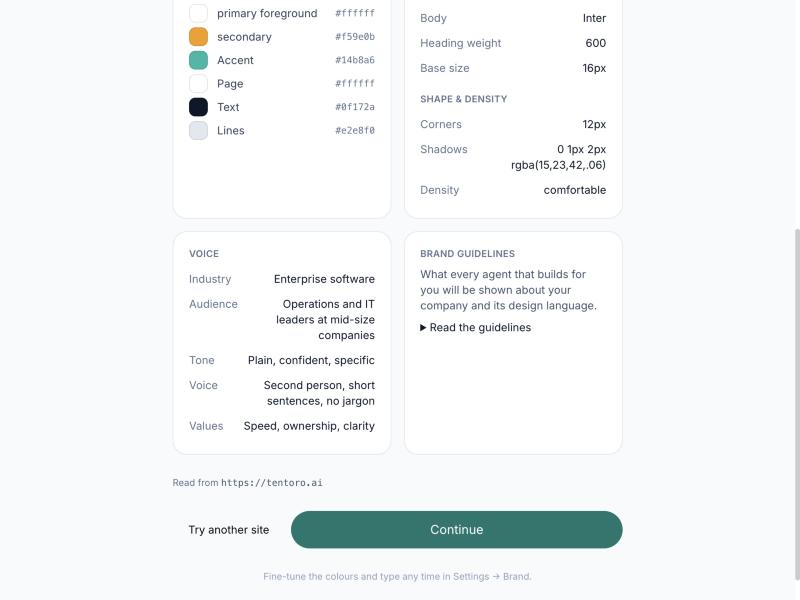
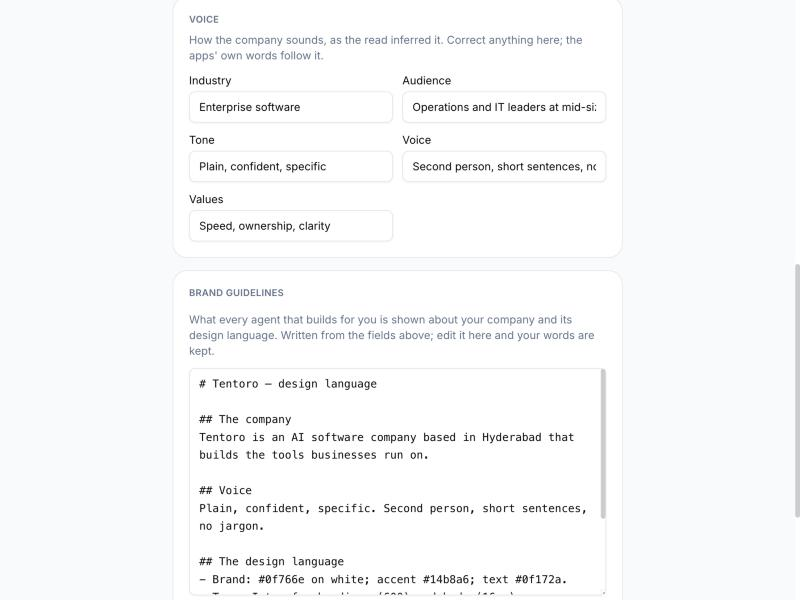
The voice and the brand guidelines are edited where they are shown
On the look screen the Voice (industry, audience, tone, voice, values) and
the Brand guidelines now sit one below the other, full width, and both are
edited in place. The guidelines textarea holds the document as rendered from
the read; left alone it keeps following the fields, and once the person
writes in it their words are what is saved — PUT /api/orgs/{id}/brand takes
`design_md`, keeps a hand-written document across later corrections to a
colour or a sentence, and an empty one hands it back to the renderer.
"Back to the generated text" undoes an edit before saving. The About screen
keeps the three answers alone.

diff --git a/frontend/src/app/start/page.tsx b/frontend/src/app/start/page.tsx
@@ -29,7 +29,8 @@ import { api, ApiError } from "@/lib/api";
 import { useAuthStore } from "@/stores/auth";
 import { COLOR_ROLES, type BrandIdentity, type BrandProfile, brand, describeDesign } from "@/lib/brand";
 import { cleanedForSave } from "@/components/brand/BrandProfileEditor";
-import { DiscoveryQuestionField, IdentityDetailFields, ReadFromNote, useBrandLogo } from "@/components/brand/fields";
+import { DiscoveryQuestionField, ReadFromNote, useBrandLogo } from "@/components/brand/fields";
+import { Textarea } from "@/components/ui/textarea";
 import { PaletteStrip, ReadingSequence, TypeSpecimen } from "@/app/onboarding/moments";
 import { ACCOUNT_TYPES, ROLES, type AccountType, type MemberRole, badEmails, parseEmails, slugPreview, slugProblem } from "./lib";
 
@@ -79,59 +80,88 @@ const ROLE_LABEL: Record<string, string> = {
 };
 const ROLE_ORDER = ["primary", "primaryForeground", "secondary", "accent", "background", "foreground", "muted", "border"];
 
-/** Everything the site read produced, in the order it matters. */
-function BrandReadout({ profile }: { profile: BrandProfile }) {
+const VOICE_FIELDS: ReadonlyArray<[keyof BrandIdentity, string, string]> = [
+  ["industry", "Industry", "What business this is"],
+  ["audience", "Audience", "Who it is for"],
+  ["tone", "Tone", "How the writing sounds"],
+  ["voice", "Voice", "How it addresses people"],
+  ["values", "Values", "What it stands for"],
+];
+
+/** Everything the site read produced, in the order it matters — the voice
+ *  and the guidelines editable in place, because this is the one moment the
+ *  person is looking at them. */
+function BrandReadout({ profile, identity, onIdentity, guidelines, onGuidelines, guidelinesEdited, onResetGuidelines }: {
+  profile: BrandProfile;
+  identity: BrandIdentity;
+  onIdentity: (key: keyof BrandIdentity, value: string) => void;
+  guidelines: string;
+  onGuidelines: (value: string) => void;
+  guidelinesEdited: boolean;
+  onResetGuidelines: () => void;
+}) {
   const design = profile.design ?? {};
-  const identity = profile.identity ?? {};
   const colors = Object.entries(design.colors ?? {}).filter(([, v]) => typeof v === "string" && v)
     .sort(([a], [b]) => (ROLE_ORDER.indexOf(a) + 1 || 99) - (ROLE_ORDER.indexOf(b) + 1 || 99));
   const type = design.typography ?? {};
   const radius = design.radius ?? {};
   const elevation = design.elevation ?? {};
-  const voice = [["Industry", identity.industry], ["Audience", identity.audience], ["Tone", identity.tone], ["Voice", identity.voice], ["Values", identity.values]]
-    .filter(([, v]) => v) as [string, string][];
   const card = "rounded-2xl border border-slate-200 bg-white p-5 dark:border-slate-800 dark:bg-slate-900";
   const head = "mb-2 text-xs font-semibold uppercase tracking-wide text-slate-500 dark:text-slate-400";
   return (
-    <div data-brand-readout="" className="grid gap-4 sm:grid-cols-2">
-      <section className={card} aria-label="Colours">
-        <h2 className={head}>Colours</h2>
-        {colors.length === 0 && <p className="text-sm text-slate-400">No colours could be read.</p>}
-        <ul className="space-y-1.5">
-          {colors.map(([key, hex]) => (
-            <li key={key} className="flex items-center gap-3 text-sm">
-              <span aria-hidden="true" className="h-6 w-6 shrink-0 rounded-md border border-black/10" style={{ background: hex }} />
-              <span className="flex-1 text-slate-700 dark:text-slate-200">{ROLE_LABEL[key] ?? key.replace(/([A-Z])/g, " $1").toLowerCase()}</span>
-              <code className="text-xs text-slate-500">{hex}</code>
-            </li>
-          ))}
-        </ul>
-      </section>
-      <section className={card} aria-label="Type">
-        <h2 className={head}>Type</h2>
-        <Found label="Headings"><span style={{ fontFamily: type.fontFamilyHeading }}>{type.fontFamilyHeading}</span></Found>
-        <Found label="Body"><span style={{ fontFamily: type.fontFamilyBase }}>{type.fontFamilyBase}</span></Found>
-        {type.fontWeightHeading && <Found label="Heading weight">{type.fontWeightHeading}</Found>}
-        {type.fontSizeBase && <Found label="Base size">{type.fontSizeBase}</Found>}
-        <h2 className={`${head} mt-4`}>Shape & density</h2>
-        <Found label="Corners">{radius.md || radius.base || Object.values(radius)[0]}</Found>
-        <Found label="Shadows">{elevation.md || elevation.base || Object.values(elevation)[0]}</Found>
-        <Found label="Density">{design.informationDensity}</Found>
-      </section>
+    <div data-brand-readout="" className="space-y-4">
+      <div className="grid gap-4 sm:grid-cols-2">
+        <section className={card} aria-label="Colours">
+          <h2 className={head}>Colours</h2>
+          {colors.length === 0 && <p className="text-sm text-slate-400">No colours could be read.</p>}
+          <ul className="space-y-1.5">
+            {colors.map(([key, hex]) => (
+              <li key={key} className="flex items-center gap-3 text-sm">
+                <span aria-hidden="true" className="h-6 w-6 shrink-0 rounded-md border border-black/10" style={{ background: hex }} />
+                <span className="flex-1 text-slate-700 dark:text-slate-200">{ROLE_LABEL[key] ?? key.replace(/([A-Z])/g, " $1").toLowerCase()}</span>
+                <code className="text-xs text-slate-500">{hex}</code>
+              </li>
+            ))}
+          </ul>
+        </section>
+        <section className={card} aria-label="Type">
+          <h2 className={head}>Type</h2>
+          <Found label="Headings"><span style={{ fontFamily: type.fontFamilyHeading }}>{type.fontFamilyHeading}</span></Found>
+          <Found label="Body"><span style={{ fontFamily: type.fontFamilyBase }}>{type.fontFamilyBase}</span></Found>
+          {type.fontWeightHeading && <Found label="Heading weight">{type.fontWeightHeading}</Found>}
+          {type.fontSizeBase && <Found label="Base size">{type.fontSizeBase}</Found>}
+          <h2 className={`${head} mt-4`}>Shape & density</h2>
+          <Found label="Corners">{radius.md || radius.base || Object.values(radius)[0]}</Found>
+          <Found label="Shadows">{elevation.md || elevation.base || Object.values(elevation)[0]}</Found>
+          <Found label="Density">{design.informationDensity}</Found>
+        </section>
+      </div>
+
       <section className={card} aria-label="Voice">
         <h2 className={head}>Voice</h2>
-        {voice.length === 0 && <p className="text-sm text-slate-400">Nothing about the voice could be read.</p>}
-        {voice.map(([label, value]) => <Found key={label} label={label}>{value}</Found>)}
+        <p className="mb-3 text-sm text-slate-500 dark:text-slate-400">How the company sounds, as the read inferred it. Correct anything here; the apps' own words follow it.</p>
+        <div className="grid gap-3 sm:grid-cols-2">
+          {VOICE_FIELDS.map(([key, label, hint]) => (
+            <div key={key} className={`space-y-1 ${key === "values" ? "sm:col-span-2" : ""}`}>
+              <Label htmlFor={`voice-${key}`} className="text-sm font-medium">{label}</Label>
+              <Input id={`voice-${key}`} className="h-10" placeholder={hint} value={(identity[key] as string) ?? ""} onChange={(e) => onIdentity(key, e.target.value)} />
+            </div>
+          ))}
+        </div>
       </section>
+
       <section className={card} aria-label="Brand guidelines">
-        <h2 className={head}>Brand guidelines</h2>
-        <p className="text-sm text-slate-600 dark:text-slate-300">What every agent that builds for you will be shown about your company and its design language.</p>
-        {profile.design_md ? (
-          <details className="mt-2 group">
-            <summary className="cursor-pointer text-sm font-medium text-slate-900 dark:text-white">Read the guidelines</summary>
-            <pre className="mt-2 max-h-64 overflow-auto whitespace-pre-wrap rounded-md bg-slate-50 p-3 text-xs leading-relaxed text-slate-700 dark:bg-slate-950 dark:text-slate-300">{profile.design_md}</pre>
-          </details>
-        ) : <p className="mt-2 text-sm text-slate-400">Written once the profile is saved.</p>}
+        <div className="mb-2 flex items-baseline justify-between gap-3">
+          <h2 className={head}>Brand guidelines</h2>
+          {guidelinesEdited && (
+            <button type="button" onClick={onResetGuidelines} className="text-xs text-slate-500 underline-offset-2 hover:underline">Back to the generated text</button>
+          )}
+        </div>
+        <p className="mb-3 text-sm text-slate-500 dark:text-slate-400">
+          What every agent that builds for you is shown about your company and its design language. Written from the fields above; edit it here and your words are kept.
+        </p>
+        <Textarea id="brand-guidelines" rows={12} value={guidelines} onChange={(e) => onGuidelines(e.target.value)}
+                  className="font-mono text-xs leading-relaxed" placeholder="Written once the site has been read." />
       </section>
     </div>
   );
@@ -167,6 +197,10 @@ function StartInner() {
   const [profile, setProfile] = useState<BrandProfile | null>(null);
   // What the read said about the company, as the person edits it.
   const [identity, setIdentity] = useState<BrandIdentity>({});
+  // The guidelines as shown; sent only when the person changed them, so an
+  // untouched document keeps following the fields it is rendered from.
+  const [guidelines, setGuidelines] = useState("");
+  const [guidelinesTouched, setGuidelinesTouched] = useState(false);
   const logoSrc = useBrandLogo(made?.id ?? "", Boolean(profile?.has_logo));
   // The screen wears the company's colour the moment there is one.
   const accent = profile?.design?.colors?.primary || "";
@@ -248,6 +282,8 @@ function StartInner() {
       const read = await brand.discover(made.id, site.trim());
       setProfile(read);
       setIdentity(read.identity ?? {});
+      setGuidelines(read.design_md ?? "");
+      setGuidelinesTouched(false);
       if (read.company_name && read.company_name !== made.name) {
         try { setMade(await api.put<Org>(`/api/orgs/${made.id}`, { name: read.company_name })); } catch { /* cosmetic */ }
       }
@@ -262,7 +298,10 @@ function StartInner() {
     if (!made) return;
     setBusy(true);
     try {
-      if (profile) await brand.update(made.id, cleanedForSave(profile.company_name ?? made.name, identity, profile.design ?? {}));
+      if (profile) await brand.update(made.id, {
+        ...cleanedForSave(profile.company_name ?? made.name, identity, profile.design ?? {}),
+        ...(guidelinesTouched ? { design_md: guidelines } : {}),
+      });
       else await brand.skip(made.id);
     } catch { /* the profile is stored server-side by the read either way */ }
     router.replace(`/org/${made.id}`);
@@ -420,7 +459,9 @@ function StartInner() {
                     rather than discovered in the first app: each colour with its
                     role and hex, each typeface with its job, shape and density,
                     the voice, and the guidelines the agents will be shown. */}
-                <BrandReadout profile={profile} />
+                <BrandReadout profile={profile} identity={identity} onIdentity={(key, value) => setIdentity((i) => ({ ...i, [key]: value }))}
+                              guidelines={guidelines} onGuidelines={(v) => { setGuidelines(v); setGuidelinesTouched(true); }}
+                              guidelinesEdited={guidelinesTouched} onResetGuidelines={() => { setGuidelines(profile.design_md ?? ""); setGuidelinesTouched(false); }} />
                 <ReadFromNote sourceUrl={profile.source_url} rendered={profile.evidence?.rendered} />
                 {error && <p className="text-sm text-red-600 dark:text-red-400">{error}</p>}
                 <div className="flex items-center gap-2">
@@ -449,10 +490,6 @@ function StartInner() {
                 <DiscoveryQuestionField key={key} which={key} rows={3} value={(identity[key] as string) ?? ""}
                                         onChange={(v) => setIdentity((i) => ({ ...i, [key]: v }))} />
               ))}
-              <div className="border-t border-slate-200 pt-5 dark:border-slate-800">
-                <p className="mb-3 text-sm font-medium text-slate-700 dark:text-slate-300">What the read inferred around them</p>
-                <IdentityDetailFields identity={identity} onChange={(key, value) => setIdentity((i) => ({ ...i, [key]: value }))} />
-              </div>
             </div>
             {error && <p className="text-sm text-red-600 dark:text-red-400">{error}</p>}
             <div className="flex items-center gap-2">

diff --git a/frontend/src/lib/brand.ts b/frontend/src/lib/brand.ts
@@ -104,6 +104,8 @@ export const brand = {
       company_name?: string;
       identity?: BrandIdentity;
       design?: BrandDesign;
+      /** The guidelines in the person's own words; "" hands them back to the renderer. */
+      design_md?: string;
     },
   ) => api.put<BrandProfile>(`/api/orgs/${orgId}/brand`, body),
   skip: (orgId: string) => api.post<BrandProfile>(`/api/orgs/${orgId}/brand/skip`),

diff --git a/backend/routers/brand_discovery.py b/backend/routers/brand_discovery.py
@@ -67,6 +67,10 @@ class BrandProfileUpdate(BaseModel):
     company_name: str | None = Field(default=None, max_length=255)
     identity: dict[str, Any] | None = None
     design: dict[str, Any] | None = None
+    #: The guidelines in the person's own words. Given, the document is theirs
+    #: and stays theirs across later corrections; "" hands it back to the
+    #: renderer. Absent, the document is re-rendered as before.
+    design_md: str | None = None
 
 
 class BrandProfileResponse(BaseModel):
@@ -225,13 +229,24 @@ async def update_brand_profile(
             design["logo"] = kept
         profile.design = design
 
-    profile.design_md = regenerate({
-        "company_name": profile.company_name,
-        "source_url": profile.source_url,
-        "identity": profile.identity or {},
-        "design": profile.design or {},
-        "evidence": profile.evidence or {},
-    })
+    # THE GUIDELINES MAY BE THE PERSON'S OWN. Written by hand, the document
+    # is kept as written across later corrections to a colour or a sentence
+    # (the renderer would otherwise overwrite it in the same call); cleared,
+    # it goes back to being rendered.
+    evidence = dict(profile.evidence or {})
+    if req.design_md is not None:
+        evidence["design_md_by_hand"] = bool(req.design_md.strip())
+        profile.evidence = evidence
+    if req.design_md is not None and req.design_md.strip():
+        profile.design_md = req.design_md.strip() + "\n"
+    elif not evidence.get("design_md_by_hand"):
+        profile.design_md = regenerate({
+            "company_name": profile.company_name,
+            "source_url": profile.source_url,
+            "identity": profile.identity or {},
+            "design": profile.design or {},
+            "evidence": profile.evidence or {},
+        })
     # An edited profile is a finished one, whatever it was before: somebody
     # has now said what this company looks like, which is the whole of what
     # `ready` means.

diff --git a/backend/tests/routers/test_the_company_profile_is_the_organisation_s.py b/backend/tests/routers/test_the_company_profile_is_the_organisation_s.py
@@ -168,3 +168,23 @@ async def test_the_document_can_be_read_as_a_document(
     assert resp.status_code == 200
     assert resp.text.startswith("# Northwind")
     assert resp.headers["content-type"].startswith("text/markdown")
+
+
+@pytest.mark.asyncio
+async def test_guidelines_written_by_hand_stay_written_until_handed_back(auth_client: AsyncClient, org_id: str):
+    """The start flow lets the person edit the guidelines in place. Their text
+    must not be overwritten by the renderer on the next correction, and
+    clearing it must bring the rendered document back."""
+    with patch("routers.brand_discovery.discover", return_value=READ, create=True), \
+         patch("services.brand_discovery.discover", return_value=READ):
+        await auth_client.post(f"/api/orgs/{org_id}/brand/discover", json={"url": "northwind.test"})
+    mine = "# Northwind\n\nWarm, never cute. Brown bread photography only."
+    r = await auth_client.put(f"/api/orgs/{org_id}/brand", json={"design_md": mine})
+    assert r.status_code == 200 and r.json()["design_md"].startswith("# Northwind\n\nWarm, never cute.")
+    # A later correction to a colour keeps the hand-written document.
+    r = await auth_client.put(f"/api/orgs/{org_id}/brand", json={"design": {"colors": {"primary": "#222222"}}})
+    assert r.json()["design_md"].startswith("# Northwind\n\nWarm, never cute.")
+    assert r.json()["design"]["colors"]["primary"] == "#222222"
+    # Handing it back: an empty document means "render it for me again".
+    r = await auth_client.put(f"/api/orgs/{org_id}/brand", json={"design_md": ""})
+    assert "design language" in r.json()["design_md"] and "#222222" in r.json()["design_md"]
